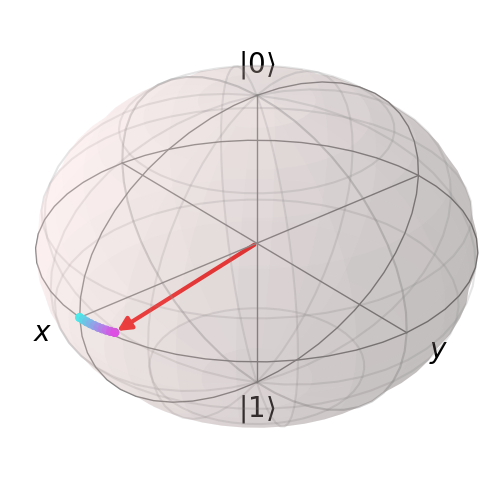
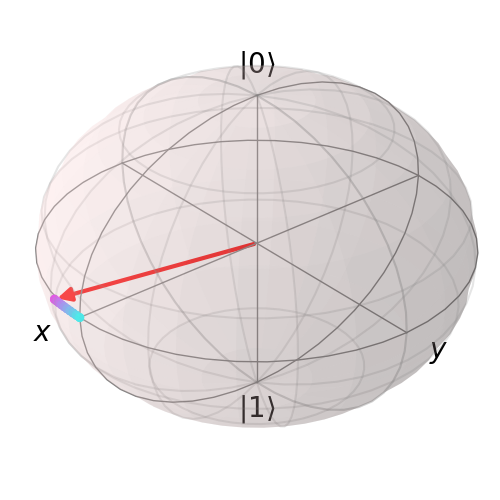
te

Changed region(s): [[0.21, 0.48, 0.51, 0.6], [0.15, 0.6, 0.33, 0.69], [0.09, 0.57, 0.21, 0.63]]

diff --git a/anim.py b/anim.py
@@ -45,7 +45,7 @@ def main():
     ts = linspace(0,1,10)
     for t in ts:
         t = t * pi * x * (1/30)
-        states.append((np.exp(-3j*t)*((x*cos(3*x*t)- 1j*sin(3*x*t))*basis(2,0) + x*cos(3*x*t)*basis(2,1))).unit())
+        states.append((np.exp(-3j*t)*((x*cos(3*x*t)- 1j*sin(3*x*t))*basis(2,1) + x*cos(3*x*t)*basis(2,0))).unit())
     animate_bloch(states, duration=0.1, save_all=False)
 
 main()
